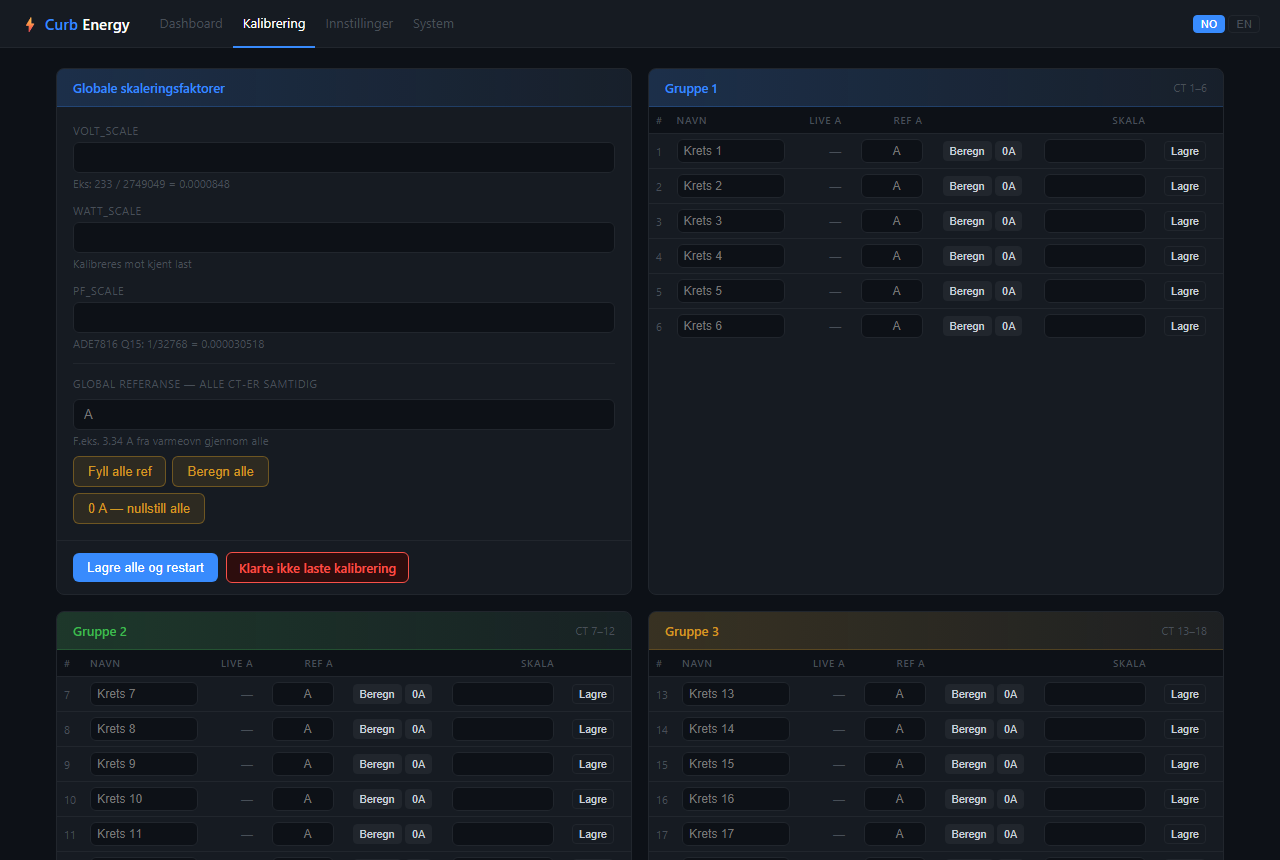
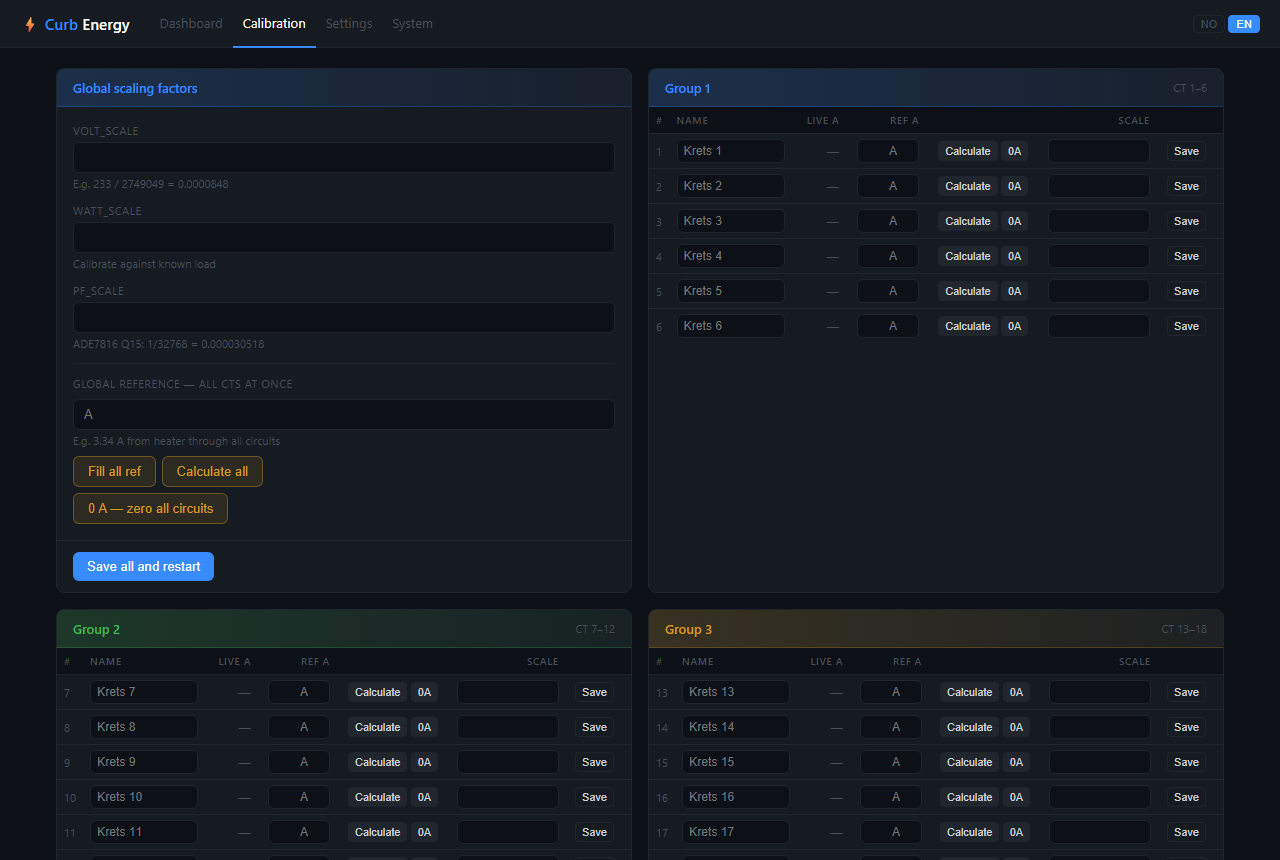
fix: English screenshots, settings password placeholder i18n, curbed credit, README IP placeholder

diff --git a/webserver/settings.html b/webserver/settings.html
@@ -102,7 +102,7 @@
       </div>
       <div class="field">
         <label data-i18n="lbl_pass">Passord</label>
-        <input id="password" type="password" placeholder="La staa for aa beholde">
+        <input id="password" type="password" data-i18n-placeholder="placeholder_pass">
         <p class="hint" data-i18n="hint_pass">Tom = behold eksisterende passord</p>
       </div>
     </div>
@@ -157,6 +157,7 @@ const T = {
     mqtt_title:'MQTT-broker', dev_title:'Enhet',
     lbl_host:'Broker-adresse', lbl_port:'Port', lbl_user:'Brukernavn',
     lbl_pass:'Passord', hint_pass:'Tom = behold eksisterende passord',
+    placeholder_pass:'La stå for å beholde',
     lbl_topic:'Base topic', lbl_devname:'Enhetsnavn (vises i Home Assistant)',
     lbl_haprefix:'Home Assistant discovery-prefiks',
     btn_save:'Lagre og restart',
@@ -167,6 +168,7 @@ const T = {
     mqtt_title:'MQTT broker', dev_title:'Device',
     lbl_host:'Broker address', lbl_port:'Port', lbl_user:'Username',
     lbl_pass:'Password', hint_pass:'Leave empty to keep existing password',
+    placeholder_pass:'Leave blank to keep existing',
     lbl_topic:'Base topic', lbl_devname:'Device name (shown in Home Assistant)',
     lbl_haprefix:'Home Assistant discovery prefix',
     btn_save:'Save and restart',
@@ -179,6 +181,7 @@ function applyLang(l) {
   lang = l; localStorage.setItem('curb_lang', l);
   const tr=T[l]||T.no;
   document.querySelectorAll('[data-i18n]').forEach(el=>{ const k=el.dataset.i18n; if(tr[k]!=null) el.textContent=tr[k]; });
+  document.querySelectorAll('[data-i18n-placeholder]').forEach(el=>{ const k=el.dataset.i18nPlaceholder; if(tr[k]!=null) el.placeholder=tr[k]; });
   document.querySelectorAll('.lang-btn').forEach(b=>b.classList.toggle('active', b.dataset.lang===l));
 }
 
@@ -199,7 +202,7 @@ async function load() {
     document.getElementById('base_topic').value  = cfg.base_topic  || 'curb/power';
     document.getElementById('device_name').value = cfg.device_name || '';
     document.getElementById('ha_prefix').value   = cfg.ha_prefix   || 'homeassistant';
-  } catch(e) { toast('mqtt-toast',false,'Klarte ikke laste konfig: '+e.message); }
+  } catch(e) { toast('mqtt-toast',false,'Could not load config: '+e.message); }
 }
 
 async function saveMqtt() {

diff --git a/README.md b/README.md
@@ -172,13 +172,13 @@ Live view of uptime, memory usage, CPU load, data age and process status (sample
 ### Restore manually
 
 ```bash
-ssh root@10.0.0.107
+ssh root@<curb-ip>
 
 # List backups
 ls /data/backup-*/
 
 # Restore a file
-cp /data/backup-20241201-143022/hm.conf /etc/hm.conf
+cp /data/backup-<date>/hm.conf /etc/hm.conf
 
 # Stop new processes and let hm clean up
 kill $(ps | grep mqtt-streamer | grep lua | sed 's/^ *//' | cut -d' ' -f1) 2>/dev/null
@@ -216,6 +216,12 @@ All calibration is done in software via `/data/calibration.json`:
 - `watt_scale` — power: calibrate against a known load
 - `pf_scale` — 1/32768 (Q15 format, constant)
 - `circuit_current_scales[n]` — individual CT calibration per circuit
+
+## Credits
+
+This project would not have been possible without the reverse engineering work done by
+[codearranger/curbed](https://github.com/codearranger/curbed/tree/main), which documented
+the Curb internal IPC queue protocol, sampler data format, and Lua runtime environment.
 
 ## License
 
